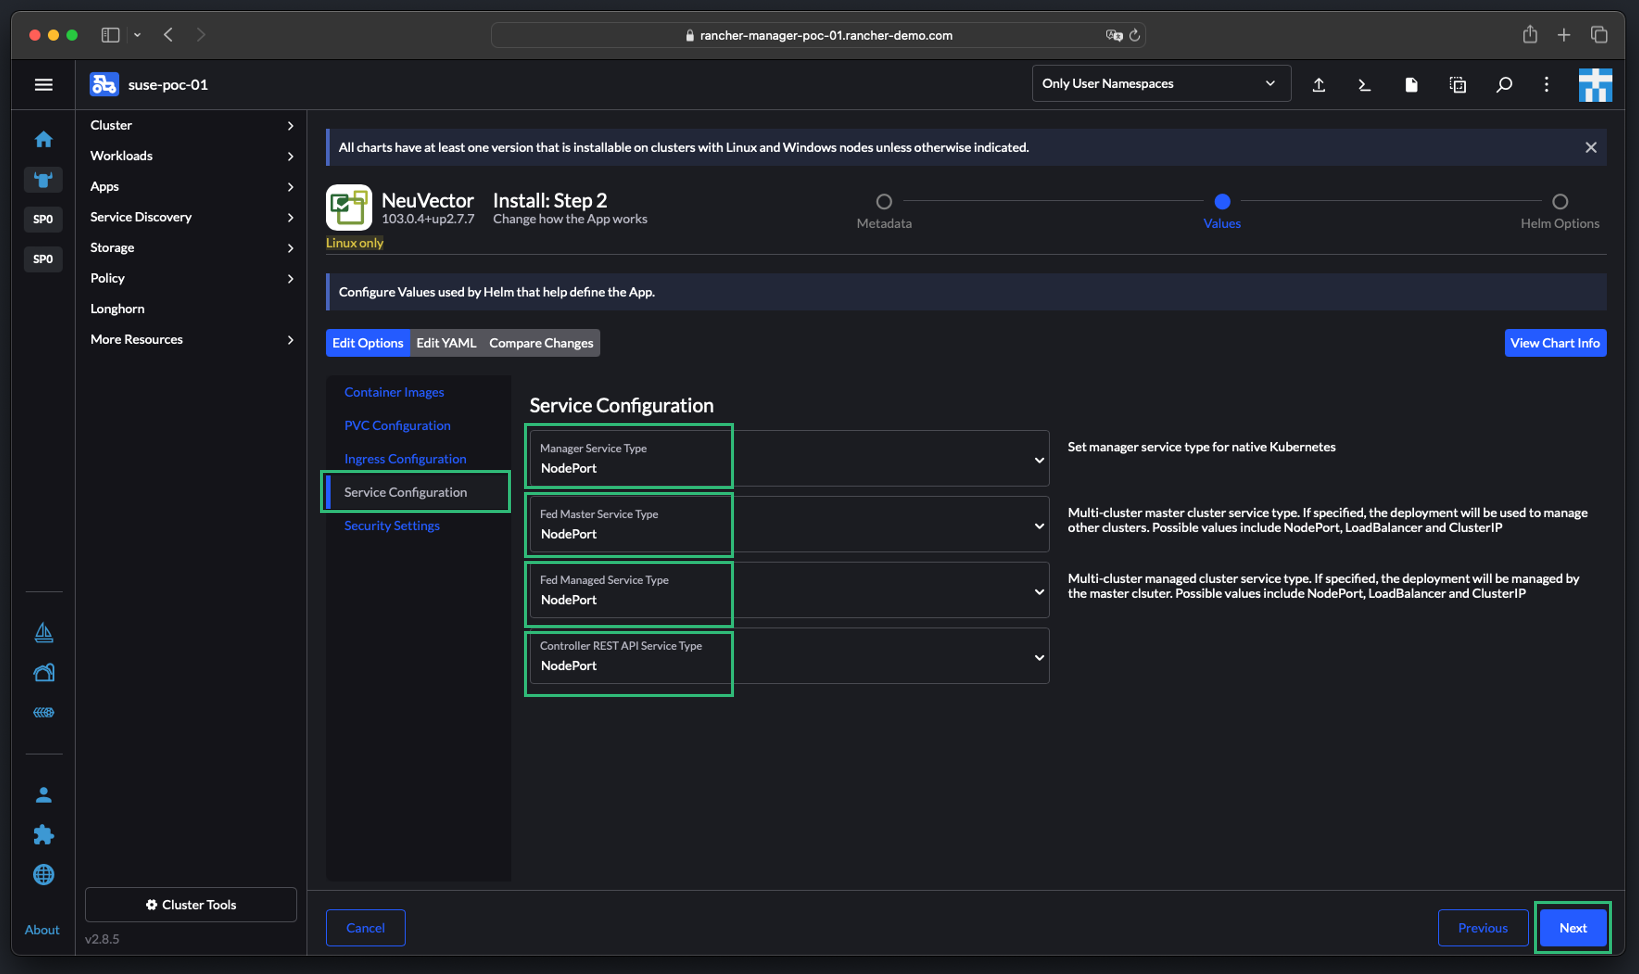
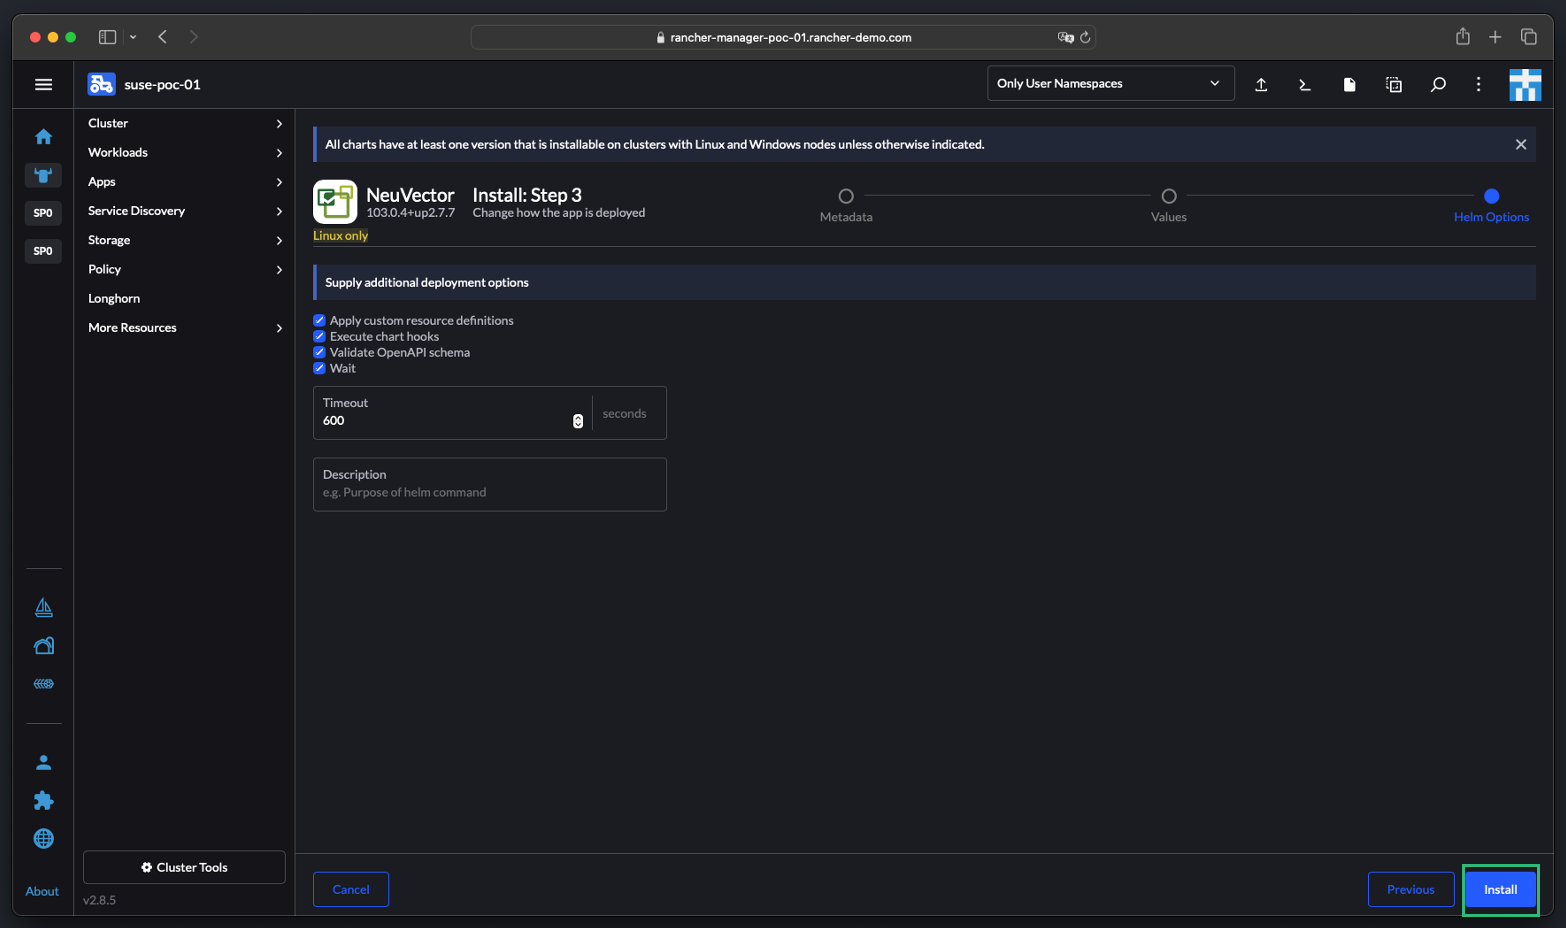
FC

diff --git a/1-Install/NeuVector/1-Install-NeuVector-With-Rancher/README.md b/1-Install/NeuVector/1-Install-NeuVector-With-Rancher/README.md
@@ -60,28 +60,22 @@ This section is a ste-by-step guide for installing the `SUSE NeuVector` through 
     <img src="Images/step-5.png">
 </p>
 
-6. Click on the `Services Configuration` and then chose the `Service Type` (NodePort, ClusterIP, LoadBalancer) for the `Manager Service Type`. In this guide, as we will be configuring NeuVector Federation as well as testing Controller REST API communication, we are setting all of them as we need to expose these services to the external network for access. Please Note: In a production environment, in most of the cases, there will be an external load balancer, so you should set the Service Type to Load Balancer, in this guide we do not have a load balancer, thus we are setting it as NodPort for simplicity.
+6. Once done, click `Next`, then `Install`
 
 <p align="center">
     <img src="Images/step-6.png">
 </p>
 
-7. Once done, click `Next`, then `Install`
+7. Rancher will now install NeuVector and will show the actions in the shell terminal 
 
 <p align="center">
     <img src="Images/step-7.png">
 </p>
 
-8. Rancher will now install NeuVector and will show the actions in the shell terminal 
+8. Now you can log in to NeuVector
 
 <p align="center">
     <img src="Images/step-8.png">
-</p>
-
-9. Now you can log in to NeuVector
-
-<p align="center">
-    <img src="Images/step-9.png">
 </p>
 
 ---

diff --git a/3-Troubleshoot/README.md b/3-Troubleshoot/README.md
@@ -28,3 +28,9 @@ kubectl delete clusters.management.cattle.io $CLUSTERID
 
 kubectl describe node <node-name> | grep Taints
 kubectl taint nodes <node-name> <taint-key>:<effect>-
+
+/var/lib/rancher/rke2/bin/ctr --address /run/k3s/containerd/containerd.sock --namespace k8s.io container ls
+
+
+export CRI_CONFIG_FILE=/var/lib/rancher/rke2/agent/etc/crictl.yaml
+/var/lib/rancher/rke2/bin/crictl ps
